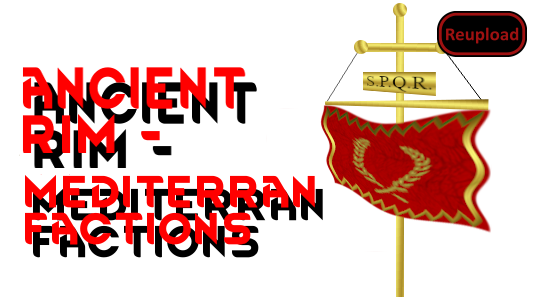
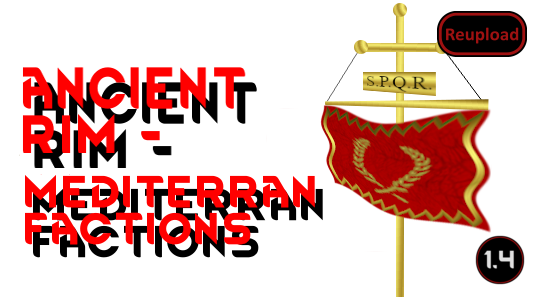
Some patch-fixes and also the inclusion of an updated version of the 1.3 scenario by [url=https://www.steamcommunity.com/sharedfiles/filedetails/?id=2608733073]RAVENFACE[/url], fixed by TurtleShroom.

Changed region(s): [[0.8641, 0.7879, 0.9832, 0.9697]]

diff --git a/README.md b/README.md
@@ -27,10 +27,13 @@ Macedonia which is hostile and won't pursue for peace in its imperial interest
 
 -  See if the the error persists if you just have this mod and its requirements active.
 -  If not, try adding your other mods until it happens again.
--  Post your error-log using https://steamcommunity.com/workshop/filedetails/?id=818773962]HugsLib and command Ctrl+F12
+-  Post your error-log using https://steamcommunity.com/workshop/filedetails/?id=818773962]HugsLib or the standalone https://steamcommunity.com/sharedfiles/filedetails/?id=2873415404]Uploader and command Ctrl+F12
 -  For best support, please use the Discord-channel for error-reporting.
 -  Do not report errors by making a discussion-thread, I get no notification of that.
 -  If you have the solution for a problem, please post it to the GitHub repository.
+-  Use https://github.com/RimSort/RimSort/releases/latest]RimSort to sort your mods
 
 
-https://steamcommunity.com/sharedfiles/filedetails/changelog/2458185861]Last updated 2023-05-11
+
+https://steamcommunity.com/sharedfiles/filedetails/changelog/2458185861]![Image](https://img.shields.io/github/v/release/emipa606/AncientRimMediterranFactions?label=latest%20version&style=plastic&color=9f1111&labelColor=black)
+
